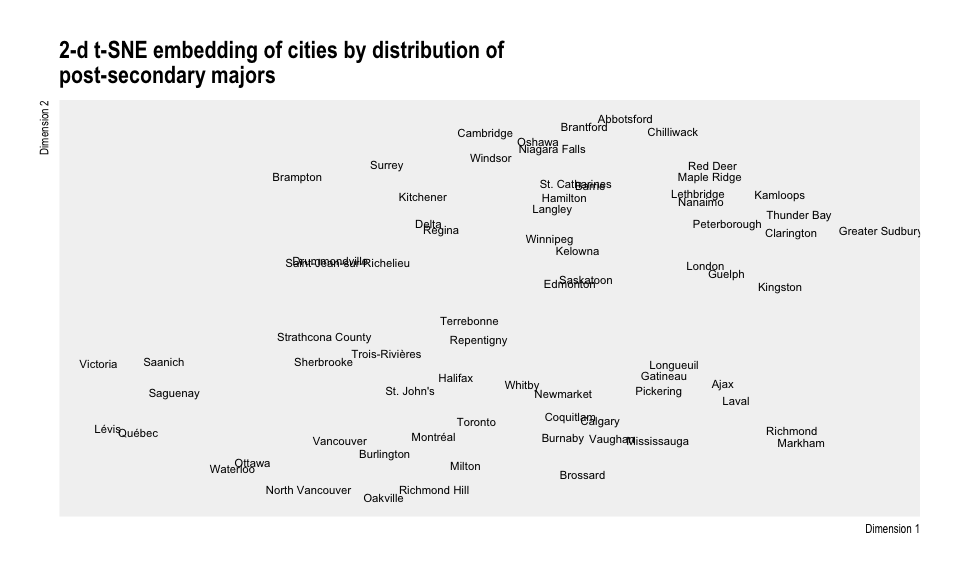
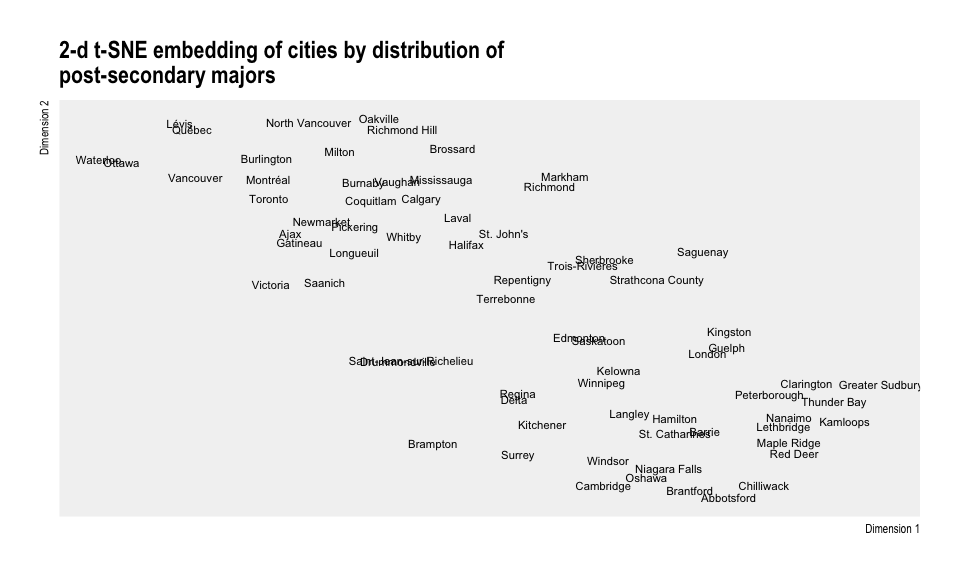
More detail on hyperparameters

diff --git a/content/post/2018-07-01-demographic-tsne.html b/content/post/2018-07-01-demographic-tsne.html
@@ -28,6 +28,7 @@ draft: no
 <center>
 <small>“t-SNE convergence” by Gene Kogan on Vimeo (CC BY-NC-SA 3.0)</small>
 </center>
+<p><br></p>
 <p><a href="https://lvdmaaten.github.io/tsne/">T-distributed Stochastic Neighbour Embedding</a> is a non-linear dimensionality reduction algorithm for turning high-dimensional data into two or three dimensional representations. It is primarily used for visualizing high-dimensional data in a way that preserves the relationships between similar observations and is regularly used in applications requiring interpretation of high-dimensional data such as bioinformatics, explaining neural nets, and even <a href="https://paulvanderlaken.com/2017/08/11/t-sne-the-ultimate-drum-machine-and-more/">music analysis</a>.</p>
 </div>
 <div id="some-notes-on-interpreting-t-sne." class="section level3">
@@ -84,21 +85,10 @@ prop_matrix &lt;- larger_csd_props %&gt;%
 </div>
 <div id="two-dimensional-embedding-of-visible-minority-proportions-by-city" class="section level3">
 <h3>Two dimensional embedding of visible minority proportions by city</h3>
-<p>The <a href="https://cran.r-project.org/web/packages/Rtsne/index.html">Rtsne</a> package provides an R API for generating t-sne embeddings from matrices.</p>
+<p>The <a href="https://cran.r-project.org/web/packages/Rtsne/index.html">Rtsne</a> package provides an R API for generating t-SNE embeddings from matrices. By default, <code>Rtsne</code> applies PCA for preprocessing and provides options for normalization and scaling. In this case, working with proportion data, the numbers are already normalized, but other types of variables may require normalization to be effectively used for t-SNE.</p>
+<p>T-SNE embeddings are extremely sensitive to hyperparameter selection for perplexity, iterations (steps), and other settings like exagerration factor. There is not really a correct setting for hyperparameters and different datasets will require some trial and error to identify appropriate settings. Perplexity is probably the most consequential parameter, as it more or less determines how many neighbours embeddings should consider. Perplexity is typically set between 10 and 50 and the maximum perplexity depends on the size of the matrix and the number of elements we are looking at. Ultimately it depends on the data itself: how large it is, how complex, and how much natural structure there may be in it. Setting perplexity too low may not result in meaningful convergence in embeddings, while high perplexity can lead to convergence where there is none in reality. At particularly high settings for perplexity the t-SNE visualization will look like individual lines. Higher perplexity also increases processing time but generally improves groupings in reduced dimensional space.</p>
 <pre class="r"><code># Load Rtsne package
 library(Rtsne)
-
-# Run TSNE algorithm with PCA preprocessing
-#
-# Note that proportion data is already normalized. 
-# Other types of variables may require normalization 
-# to be effectively used in TSNE. 
-#
-# Higher perplexity increases processing time but generally 
-# improves groupings in reduced dimensional space. Perplexity 
-# is typically set between 10 and 50. Max perplexity depends 
-# on the size of the matrix and the number of elements we are 
-# looking at. 
 
 csd_tsne &lt;- Rtsne(prop_matrix, perplexity = 5, 
                   exaggeration_factor = 2, 
